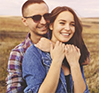
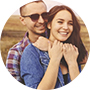
Desktop

diff --git a/less/blocks/review.less b/less/blocks/review.less
@@ -1,0 +1,109 @@
+.review {
+  padding-bottom: 80px;
+}
+
+.review__slider {
+  width: 1030px;
+  margin-left: auto;
+  margin-right: auto;
+}
+
+.review__prev {
+  top: 50%;
+  left: 0;
+}
+
+.review__next {
+  top: 50%;
+  right: 0;
+}
+
+.review__slide {
+  position: relative;
+  box-sizing: border-box;
+  padding-left: 225px;
+  padding-right: 225px;
+  padding-bottom: 40px;
+  padding-top: 20px;
+  
+  &::before {
+    content: "";
+    position: absolute;
+    top: 0;
+    bottom: 0;
+    left: 50%;
+    transform: translateX(-50%);
+    width: 580px;
+    border: 1px solid #8d6443;
+    z-index: -1;
+  }
+  
+  &::after {
+    content: "";
+    position: absolute;
+    top: 100px;
+    left: 50%;
+    transform: translateX(-50%);
+    width: 730px;
+    height: 250px;
+    background-color: #fff;
+    z-index: -1;
+  }
+}
+
+.review__img {
+  width: 90px;
+  height: 90px;
+  overflow: hidden;
+  margin-left: auto;
+  margin-right: auto;
+  display: flex;
+  justify-content: center;
+  align-items: center;
+  border-radius: 50%;
+  
+  img {
+    display: block;
+  }
+}
+
+.review__name {
+  margin-top: 5px;
+  margin-bottom: 15px;
+  font-weight: 500;
+  text-align: center;
+}
+
+.review__info {
+  position: relative;
+  text-align: justify;
+  
+  &::before,
+  &::after {
+    content: "";
+    position: absolute;
+    width: 41px;
+    height: 29px;
+    background-image: url(../img/icon-quotes.png);
+    background-repeat: no-repeat;
+    background-size: contain;
+  }
+  
+  &::before {
+    top: -15px;
+    left: -62px;
+  }
+  
+  &::after {
+    bottom: -10px;
+    right: -62px;
+    transform: rotate(180deg);
+  }
+}
+
+.review__btn {
+  width: 280px;
+  margin-top: 30px;
+  margin-left: auto;
+  margin-right: auto;
+}

diff --git a/index.html b/index.html
@@ -224,12 +224,12 @@
     </section>
     
     <section class="review wrapper">
-      <p class="title-2">Отзывы наших гостей</p>
+      <p class="title">Отзывы наших гостей</p>
       <div class="swiper-container review__slider">
         <div class="swiper-wrapper">
           <div class="swiper-slide review__slide">
             <figure class="review__img">
-              <img src="img/avatar.jpg" alt="Отзывы наших гостей" width="99" height="93">
+              <img src="img/avatar.jpg" alt="Отзывы наших гостей" width="90" height="90">
             </figure>
             <p class="review__name">Игорь и Ольга</p>
             <div class="review__info">
@@ -239,7 +239,7 @@
           </div>
           <div class="swiper-slide review__slide">
             <figure class="review__img">
-              <img src="img/avatar.jpg" alt="Отзывы наших гостей" width="99" height="93">
+              <img src="img/avatar.jpg" alt="Отзывы наших гостей" width="90" height="90">
             </figure>
             <p class="review__name">Игорь и Ольга</p>
             <div class="review__info">
@@ -259,7 +259,7 @@
       <nav class="footer__menu">
         <button type="button" class="footer__menu-btn">Меню &raquo;</button>
         <ul class="footer__list">
-          <li><a href="#" class="footer__link footer__link--active">Отель</a></li>
+          <li><a href="#" class="footer__link">Отель</a></li>
           <li><a href="#" class="footer__link">Номера</a></li>
           <li><a href="#" class="footer__link">Услуги</a></li>
           <li><a href="#" class="footer__link">Галерея</a></li>

diff --git a/less/blocks/footer.less b/less/blocks/footer.less
@@ -1,9 +1,23 @@
 .footer {
+  position: relative;
+  z-index: 0;
   color: #fff;
-  background-image: url(../img/bg-3.jpg);
+  background-color: #000;
+  background-image: url(../img/bg-footer.jpg);
   background-repeat: no-repeat;
   background-size: cover;
   background-position: center;
+  
+  &::before {
+    content: "";
+    position: absolute;
+    top: 0;
+    left: 0;
+    bottom: 0;
+    right: 0;
+    background-color: rgba(0,0,0,0.6);
+    z-index: -1;
+  }
 }
 
 .footer__menu-btn {
@@ -13,7 +27,7 @@
 .footer__menu {
   padding-top: 20px;
   padding-bottom: 15px;
-  border-bottom: 1px solid rgba(255,255,255,0.3);
+  border-bottom: 1px solid rgba(255,255,255,0.5);
 }
 
 .footer__list {
@@ -33,7 +47,7 @@
   &:hover,
   &:active,
   &--active {
-    color: @blue-light;
+    color: #bd8659;
     .transition();
   }
 }
@@ -48,7 +62,7 @@
 
 .footer__logo {
   img {
-    width: 212px;
+    width: 181px;
     height: auto;
   }
 }
@@ -58,20 +72,11 @@
   margin-left: auto;
   margin-right: 15px;
   margin-bottom: 10px;
-  
-  address {
-    max-width: 100%;
-    font-size: 18px;
-    line-height: 1.2;
+}
+
+.mail {
+  &:hover,
+  &:active {
+    text-decoration: underline;
   }
-}
-
-.footer__phone {
-  font-size: 25px;
-  font-weight: 600;
-  line-height: 1.2;
-}
-
-.footer__btn {
-  margin-bottom: 5px;
 }

diff --git a/less/blocks/btn.less b/less/blocks/btn.less
@@ -8,6 +8,7 @@
   border-radius: 25px;
   width: 355px;
   height: 50px;
+  max-width: 100%;
   background-image: linear-gradient(to top, rgb(138,98,65) 0%, rgb(189,134,89) 100%);
   
   &:hover,

diff --git a/less/style.less b/less/style.less
@@ -14,3 +14,5 @@
 @import "blocks/about";
 @import "blocks/features";
 @import "blocks/slider";
+@import "blocks/review";
+@import "blocks/footer";
